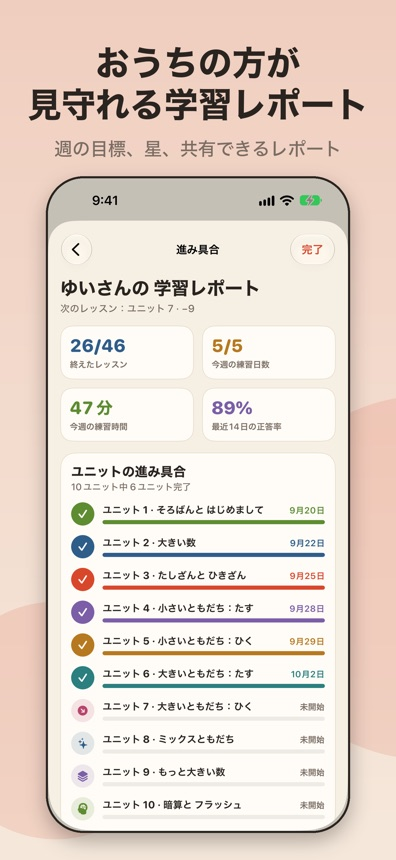
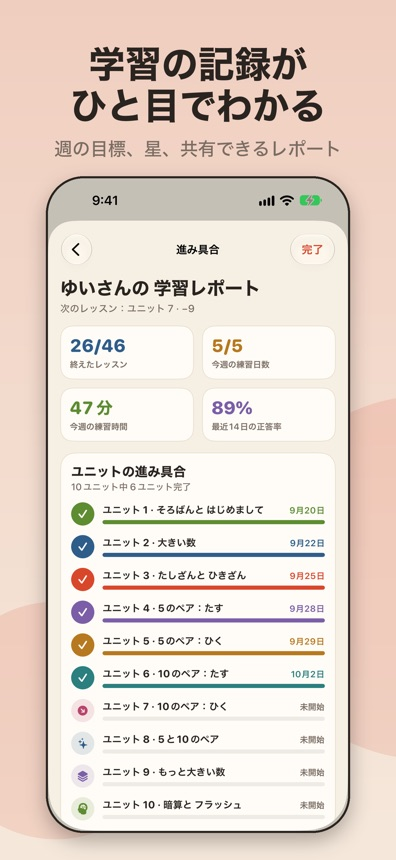
fix: 名前を Soroban Sensei / そろばんの道 に変え、「ともだち」を「ペア」に直す
- 全ページの名前を Soroban Sensei (日本語は そろばんの道) に (旧 Soroban Friends / そろばんフレンズ)
- 紹介ページの「ともだち」の段落を「ペア / ペアわざ」で書き直し、画面写真の説明文も合わせる
- 画面写真 (英日 5 枚ずつ) を、撮り直したストア用スクリーンショットから作り直す

Claude-Session: https://claude.ai/code/session_01BX5US9bwQdA1gvvpobLEU8

diff --git a/ja/index.html b/ja/index.html
@@ -3,8 +3,8 @@
 <head>
 <meta charset="utf-8">
 <meta name="viewport" content="width=device-width, initial-scale=1">
-<title>そろばんフレンズ – そろばんを覚えて、暗算ができるように</title>
-<meta name="description" content="そろばんフレンズは、そろばんを一歩ずつ教え、頭の中で計算する暗算へつなげるアプリです。アカウント登録も、広告も、利用状況の追跡もありません。">
+<title>そろばんの道 – そろばんを覚えて、暗算ができるように</title>
+<meta name="description" content="そろばんの道は、そろばんを一歩ずつ教え、頭の中で計算する暗算へつなげるアプリです。アカウント登録も、広告も、利用状況の追跡もありません。">
 <meta name="theme-color" content="#f6f0e4">
 <link rel="icon" type="image/png" href="../img/icon-180.png">
 <link rel="apple-touch-icon" href="../img/icon-180.png">
@@ -16,7 +16,7 @@
 
 <header class="topbar">
   <div class="inner">
-    <a class="brand" href="index.html"><img src="../img/icon-180.png" alt="" width="28" height="28">そろばんフレンズ</a>
+    <a class="brand" href="index.html"><img src="../img/icon-180.png" alt="" width="28" height="28">そろばんの道</a>
     <nav aria-label="サイト">
       <a href="privacy.html">プライバシー</a>
       <a href="support.html">サポート</a>
@@ -28,8 +28,8 @@
 <main class="wrap">
 
   <section class="hero">
-    <img class="app-icon" src="../img/icon-512.png" width="120" height="120" alt="そろばんフレンズのアプリアイコン">
-    <h1>そろばんフレンズ</h1>
+    <img class="app-icon" src="../img/icon-512.png" width="120" height="120" alt="そろばんの道のアプリアイコン">
+    <h1>そろばんの道</h1>
     <p class="tagline">そろばんを覚えて、頭の中で計算できるように。</p>
     <p><span class="pill">App Store で近日公開予定</span></p>
   </section>
@@ -37,8 +37,8 @@
   <section aria-label="スクリーンショット">
     <div class="shots">
       <img src="../img/ja/shot-guided.jpg" width="396" height="860" alt="玉を動かす場所が、矢印で分かるレッスン" loading="lazy">
-      <img src="../img/ja/shot-friends.jpg" width="396" height="860" alt="34種類のともだちと、身についたしるしの星" loading="lazy">
-      <img src="../img/ja/shot-think.jpg" width="396" height="860" alt="ともだちが必要かどうかを考える問題。理由も表示されます" loading="lazy">
+      <img src="../img/ja/shot-friends.jpg" width="396" height="860" alt="34種類のペアわざと、身についたしるしの星" loading="lazy">
+      <img src="../img/ja/shot-think.jpg" width="396" height="860" alt="ペアが必要かどうかを考える問題。理由も表示されます" loading="lazy">
       <img src="../img/ja/shot-home.jpg" width="396" height="860" alt="短いレッスンが一歩ずつ並ぶホーム画面" loading="lazy">
       <img src="../img/ja/shot-progress.jpg" width="396" height="860" alt="週の目標と星が見られる学習レポート" loading="lazy">
     </div>
@@ -52,8 +52,8 @@
         <p>レッスンは、短いお手本から始まります。そのあと、玉を動かす場所を案内するので、手を動かしながら動かし方を身につけられます。</p>
       </div>
       <div class="card">
-        <h3>ともだちに会おう</h3>
-        <p>そのままでは玉で計算できないとき、「ともだち」が助けてくれます。そろばんフレンズでは、34種類のともだちと、それぞれがいつ・なぜ必要になるのかを学びます。</p>
+        <h3>ペアを知ろう</h3>
+        <p>そのままでは玉で計算できないとき、「ペア」（あわせて5や10になる2つの数）を使います。そろばんの道では、34種類のペアわざと、それぞれがいつ・なぜ必要になるのかを学びます。</p>
       </div>
       <div class="card">
         <h3>そして、頭の中で</h3>
@@ -67,7 +67,7 @@
     <ul class="list">
       <li>全10ユニット・46レッスン。「そろばんと はじめまして」から「暗算と フラッシュ」まで、短いレッスンで進みます。</li>
       <li>4種類の練習：玉ドリル、見取算、フラッシュ暗算、読み上げ算。</li>
-      <li>それぞれのともだちを、ちょうどよいタイミングで復習できます。</li>
+      <li>それぞれのペアわざを、ちょうどよいタイミングで復習できます。</li>
       <li>そろばんをすでに知っている人は、ユニットごとの「とばすテスト」で先へ進めます。</li>
       <li>ユニットごとの修了証と、共有できる学習レポートがあります。</li>
       <li>説明は「ずんだもん」の声でも読み上げます。まだ文章を読むのに慣れていなくても、聞きながら進められます。</li>

diff --git a/index.html b/index.html
@@ -3,8 +3,8 @@
 <head>
 <meta charset="utf-8">
 <meta name="viewport" content="width=device-width, initial-scale=1">
-<title>Soroban Friends – Learn abacus mental math</title>
-<meta name="description" content="Soroban Friends teaches the Japanese abacus step by step, then turns it into mental math. No accounts, no ads, no tracking.">
+<title>Soroban Sensei – Learn abacus mental math</title>
+<meta name="description" content="Soroban Sensei teaches the Japanese abacus step by step, then turns it into mental math. No accounts, no ads, no tracking.">
 <meta name="theme-color" content="#f6f0e4">
 <link rel="icon" type="image/png" href="img/icon-180.png">
 <link rel="apple-touch-icon" href="img/icon-180.png">
@@ -16,7 +16,7 @@
 
 <header class="topbar">
   <div class="inner">
-    <a class="brand" href="index.html"><img src="img/icon-180.png" alt="" width="28" height="28">Soroban Friends</a>
+    <a class="brand" href="index.html"><img src="img/icon-180.png" alt="" width="28" height="28">Soroban Sensei</a>
     <nav aria-label="Site">
       <a href="privacy.html">Privacy</a>
       <a href="support.html">Support</a>
@@ -28,8 +28,8 @@
 <main class="wrap">
 
   <section class="hero">
-    <img class="app-icon" src="img/icon-512.png" width="120" height="120" alt="Soroban Friends app icon">
-    <h1>Soroban Friends</h1>
+    <img class="app-icon" src="img/icon-512.png" width="120" height="120" alt="Soroban Sensei app icon">
+    <h1>Soroban Sensei</h1>
     <p class="tagline">Learn the Japanese abacus. Then do the math in your head.</p>
     <p><span class="pill">Coming soon to the App Store</span></p>
   </section>
@@ -37,8 +37,8 @@
   <section aria-label="Screenshots">
     <div class="shots">
       <img src="img/shot-guided.jpg" width="396" height="860" alt="A lesson where arrows show every bead move" loading="lazy">
-      <img src="img/shot-friends.jpg" width="396" height="860" alt="The 34 number friends, with a star for each one mastered" loading="lazy">
-      <img src="img/shot-think.jpg" width="396" height="860" alt="A question about when a friend is needed, with the reason shown" loading="lazy">
+      <img src="img/shot-friends.jpg" width="396" height="860" alt="The 34 pair moves, with a star for each one mastered" loading="lazy">
+      <img src="img/shot-think.jpg" width="396" height="860" alt="A question about when a pair is needed, with the reason shown" loading="lazy">
       <img src="img/shot-home.jpg" width="396" height="860" alt="The home screen with short lessons, one step at a time" loading="lazy">
       <img src="img/shot-progress.jpg" width="396" height="860" alt="A progress report with weekly goals and stars" loading="lazy">
     </div>
@@ -52,8 +52,8 @@
         <p>Each lesson starts with a short demonstration. Then guided beads show exactly where to move, so you learn the motions by doing them.</p>
       </div>
       <div class="card">
-        <h3>Meet the friends</h3>
-        <p>When a sum does not fit on the beads, a friend steps in. Soroban Friends teaches all 34 of them, and when and why each one is needed.</p>
+        <h3>Meet the pairs</h3>
+        <p>When a sum does not fit on the beads, a pair steps in: two numbers that make 5 or 10. Soroban Sensei teaches all 34 pair moves, and when and why each one is needed.</p>
       </div>
       <div class="card">
         <h3>Then do it in your head</h3>
@@ -67,7 +67,7 @@
     <ul class="list">
       <li>46 short lessons in 10 units, from “Meet the Soroban” to “Mental Math &amp; Flash”.</li>
       <li>Four kinds of practice: Bead Drills, Soroban Sums, Flash Anzan and Listening Math.</li>
-      <li>Review that brings each friend back at just the right time.</li>
+      <li>Review that brings each pair move back at just the right time.</li>
       <li>Already know some abacus? Test out of a unit and skip ahead.</li>
       <li>Certificates for finished units, and a progress report you can share.</li>
       <li>Instructions can be read aloud, so learners who are still learning to read can follow along.</li>

diff --git a/ja/privacy.html b/ja/privacy.html
@@ -3,8 +3,8 @@
 <head>
 <meta charset="utf-8">
 <meta name="viewport" content="width=device-width, initial-scale=1">
-<title>プライバシーポリシー – そろばんフレンズ</title>
-<meta name="description" content="そろばんフレンズが情報をどのように扱うかの説明です。何も収集せず、学習の記録は端末の中にだけ保存されます。">
+<title>プライバシーポリシー – そろばんの道</title>
+<meta name="description" content="そろばんの道が情報をどのように扱うかの説明です。何も収集せず、学習の記録は端末の中にだけ保存されます。">
 <meta name="theme-color" content="#f6f0e4">
 <link rel="icon" type="image/png" href="../img/icon-180.png">
 <link rel="apple-touch-icon" href="../img/icon-180.png">
@@ -16,7 +16,7 @@
 
 <header class="topbar">
   <div class="inner">
-    <a class="brand" href="index.html"><img src="../img/icon-180.png" alt="" width="28" height="28">そろばんフレンズ</a>
+    <a class="brand" href="index.html"><img src="../img/icon-180.png" alt="" width="28" height="28">そろばんの道</a>
     <nav aria-label="サイト">
       <a href="privacy.html" aria-current="page">プライバシー</a>
       <a href="support.html">サポート</a>
@@ -26,11 +26,11 @@
 </header>
 
 <main class="wrap legal">
-  <a class="backlink" href="index.html">&larr; そろばんフレンズ</a>
+  <a class="backlink" href="index.html">&larr; そろばんの道</a>
   <h1>プライバシーポリシー</h1>
   <p class="eff">2026年10月3日 更新</p>
 
-  <p>そろばんフレンズ(以下「本アプリ」)は、個人で開発している Hiro Apps Shoten(以下「当方」)が提供する、そろばんの学習アプリです。このポリシーでは、本アプリが扱う情報についてご説明します。</p>
+  <p>そろばんの道(以下「本アプリ」)は、個人で開発している Hiro Apps Shoten(以下「当方」)が提供する、そろばんの学習アプリです。このポリシーでは、本アプリが扱う情報についてご説明します。</p>
 
   <h2>かんたんに言うと</h2>
   <p>本アプリは、利用する方の個人情報を収集しません。アカウントも、広告も、第三者による利用状況の分析や追跡もありません。本アプリが覚えていることは、すべて端末の中に残ります。</p>

diff --git a/privacy.html b/privacy.html
@@ -3,8 +3,8 @@
 <head>
 <meta charset="utf-8">
 <meta name="viewport" content="width=device-width, initial-scale=1">
-<title>Privacy Policy – Soroban Friends</title>
-<meta name="description" content="How Soroban Friends handles information: nothing is collected, and progress stays on your device.">
+<title>Privacy Policy – Soroban Sensei</title>
+<meta name="description" content="How Soroban Sensei handles information: nothing is collected, and progress stays on your device.">
 <meta name="theme-color" content="#f6f0e4">
 <link rel="icon" type="image/png" href="img/icon-180.png">
 <link rel="apple-touch-icon" href="img/icon-180.png">
@@ -16,7 +16,7 @@
 
 <header class="topbar">
   <div class="inner">
-    <a class="brand" href="index.html"><img src="img/icon-180.png" alt="" width="28" height="28">Soroban Friends</a>
+    <a class="brand" href="index.html"><img src="img/icon-180.png" alt="" width="28" height="28">Soroban Sensei</a>
     <nav aria-label="Site">
       <a href="privacy.html" aria-current="page">Privacy</a>
       <a href="support.html">Support</a>
@@ -26,11 +26,11 @@
 </header>
 
 <main class="wrap legal">
-  <a class="backlink" href="index.html">&larr; Soroban Friends</a>
+  <a class="backlink" href="index.html">&larr; Soroban Sensei</a>
   <h1>Privacy Policy</h1>
   <p class="eff">Last updated: October 3, 2026</p>
 
-  <p>Soroban Friends (“the app”) is a soroban (Japanese abacus) learning app from Hiro Apps Shoten, an individual developer (“we” and “us”). This policy explains what information the app handles.</p>
+  <p>Soroban Sensei (“the app”) is a soroban (Japanese abacus) learning app from Hiro Apps Shoten, an individual developer (“we” and “us”). This policy explains what information the app handles.</p>
 
   <h2>The short version</h2>
   <p>The app does not collect any personal information. There are no accounts, no ads, and no third-party analytics or tracking. What the app remembers stays on your device.</p>

diff --git a/ja/support.html b/ja/support.html
@@ -3,8 +3,8 @@
 <head>
 <meta charset="utf-8">
 <meta name="viewport" content="width=device-width, initial-scale=1">
-<title>サポート – そろばんフレンズ</title>
-<meta name="description" content="そろばんフレンズのサポートです。購入の復元、返金、お知らせ、学習の記録、お問い合わせ先をご案内します。">
+<title>サポート – そろばんの道</title>
+<meta name="description" content="そろばんの道のサポートです。購入の復元、返金、お知らせ、学習の記録、お問い合わせ先をご案内します。">
 <meta name="theme-color" content="#f6f0e4">
 <link rel="icon" type="image/png" href="../img/icon-180.png">
 <link rel="apple-touch-icon" href="../img/icon-180.png">
@@ -16,7 +16,7 @@
 
 <header class="topbar">
   <div class="inner">
-    <a class="brand" href="index.html"><img src="../img/icon-180.png" alt="" width="28" height="28">そろばんフレンズ</a>
+    <a class="brand" href="index.html"><img src="../img/icon-180.png" alt="" width="28" height="28">そろばんの道</a>
     <nav aria-label="サイト">
       <a href="privacy.html">プライバシー</a>
       <a href="support.html" aria-current="page">サポート</a>
@@ -26,7 +26,7 @@
 </header>
 
 <main class="wrap legal">
-  <a class="backlink" href="index.html">&larr; そろばんフレンズ</a>
+  <a class="backlink" href="index.html">&larr; そろばんの道</a>
   <h1>サポート</h1>
   <p class="eff">ご質問、困りごと、ご要望など、お気軽にお寄せください。すべてのメッセージに目を通しています。</p>
 

diff --git a/support.html b/support.html
@@ -3,8 +3,8 @@
 <head>
 <meta charset="utf-8">
 <meta name="viewport" content="width=device-width, initial-scale=1">
-<title>Support – Soroban Friends</title>
-<meta name="description" content="Help for Soroban Friends: restoring a purchase, refunds, reminders, progress, and how to reach us.">
+<title>Support – Soroban Sensei</title>
+<meta name="description" content="Help for Soroban Sensei: restoring a purchase, refunds, reminders, progress, and how to reach us.">
 <meta name="theme-color" content="#f6f0e4">
 <link rel="icon" type="image/png" href="img/icon-180.png">
 <link rel="apple-touch-icon" href="img/icon-180.png">
@@ -16,7 +16,7 @@
 
 <header class="topbar">
   <div class="inner">
-    <a class="brand" href="index.html"><img src="img/icon-180.png" alt="" width="28" height="28">Soroban Friends</a>
+    <a class="brand" href="index.html"><img src="img/icon-180.png" alt="" width="28" height="28">Soroban Sensei</a>
     <nav aria-label="Site">
       <a href="privacy.html">Privacy</a>
       <a href="support.html" aria-current="page">Support</a>
@@ -26,7 +26,7 @@
 </header>
 
 <main class="wrap legal">
-  <a class="backlink" href="index.html">&larr; Soroban Friends</a>
+  <a class="backlink" href="index.html">&larr; Soroban Sensei</a>
   <h1>Support</h1>
   <p class="eff">Questions, problems or ideas? We read every message.</p>
 

diff --git a/README.md b/README.md
@@ -1,6 +1,6 @@
 # soroban-site
 
-Soroban Friends (仮の店名。未確定) の公開ページ。App Store Connect の「プライバシーポリシー URL」と「サポート URL」に入れるもの。
+Soroban Sensei (日本語は「そろばんの道」。2026-10-03 に Soroban Friends から改名) の公開ページ。App Store Connect の「プライバシーポリシー URL」と「サポート URL」に入れるもの。
 アプリの `Legal.swift` (privacyPolicyURL / supportURL) も同じ場所を指す。
 
 | ページ | 役割 |
@@ -25,7 +25,7 @@ gh api -X POST repos/hirokishingu/soroban-site/pages -f 'source[branch]=main' -f
 
 ## 店名を変えたとき
 
-`Soroban Friends` の表記を全ページで置き換える (`grep -rn "Soroban Friends" .`)。日本語は `そろばんフレンズ` (`grep -rn "そろばんフレンズ" ja`)。
+`Soroban Sensei` の表記を全ページで置き換える (`grep -rn "Soroban Sensei" .`)。日本語は `そろばんの道` (`grep -rn "そろばんの道" ja`)。
 support.html の「購読の解約」の説明にも、App Store に出る名前が入っている (日本語版にも)。
 
 ## 確認のしかた
